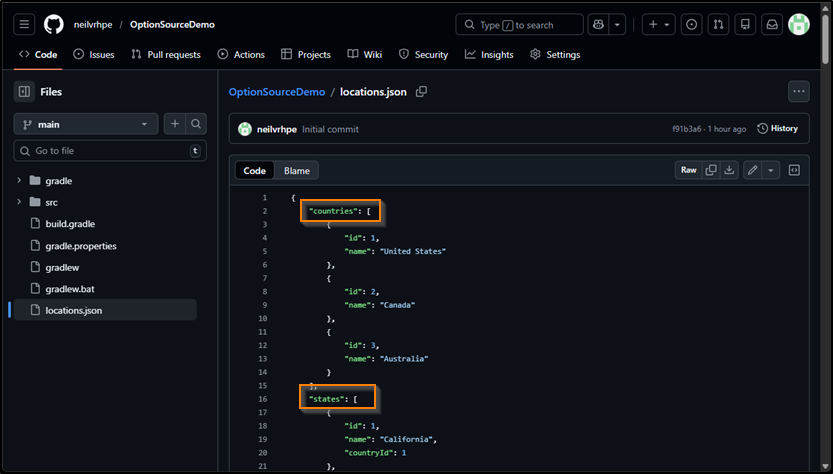
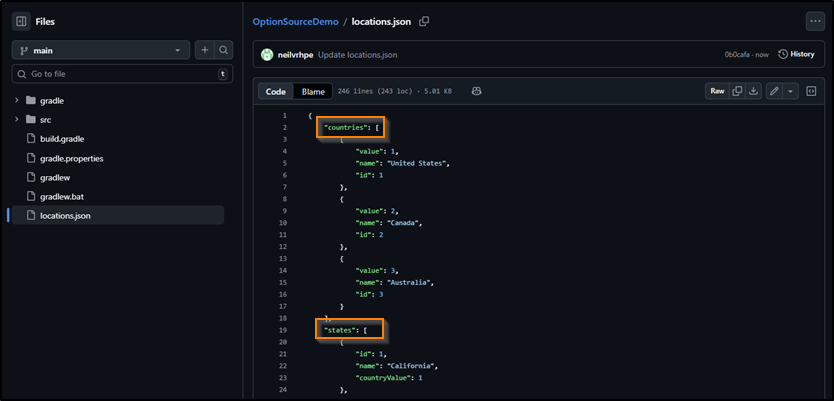
Update Blog “cascading-dropdown-lists-on-hpe-morpheus-enterprise-forms”

Changed region(s): [[0.0, 0.0, 0.9988, 1.0], [0.5618, 0.0299, 0.6555, 0.0599], [0.6867, 0.0299, 0.7491, 0.0599]]

diff --git a/content/blog/cascading-dropdown-lists-on-hpe-morpheus-enterprise-forms.md b/content/blog/cascading-dropdown-lists-on-hpe-morpheus-enterprise-forms.md
@@ -83,9 +83,9 @@ The 3 sub-pages: ***/countries***, ***/states*** and ***/cities*** reflect the b
 
 ![](/img/locations_json.png)
 
-As you can see, the endpoint* **http://demojsonserver/countries*** provides the 3 countries in the* **locations.json*** file:
+As you can see, the endpoint ***http://demojsonserver/countries*** provides the 3 countries in the* **locations.json*** file:
 
-![](/img/locations_json.png)
+![](/img/countries_json.png)
 
 ## Creating the Option Lists
 